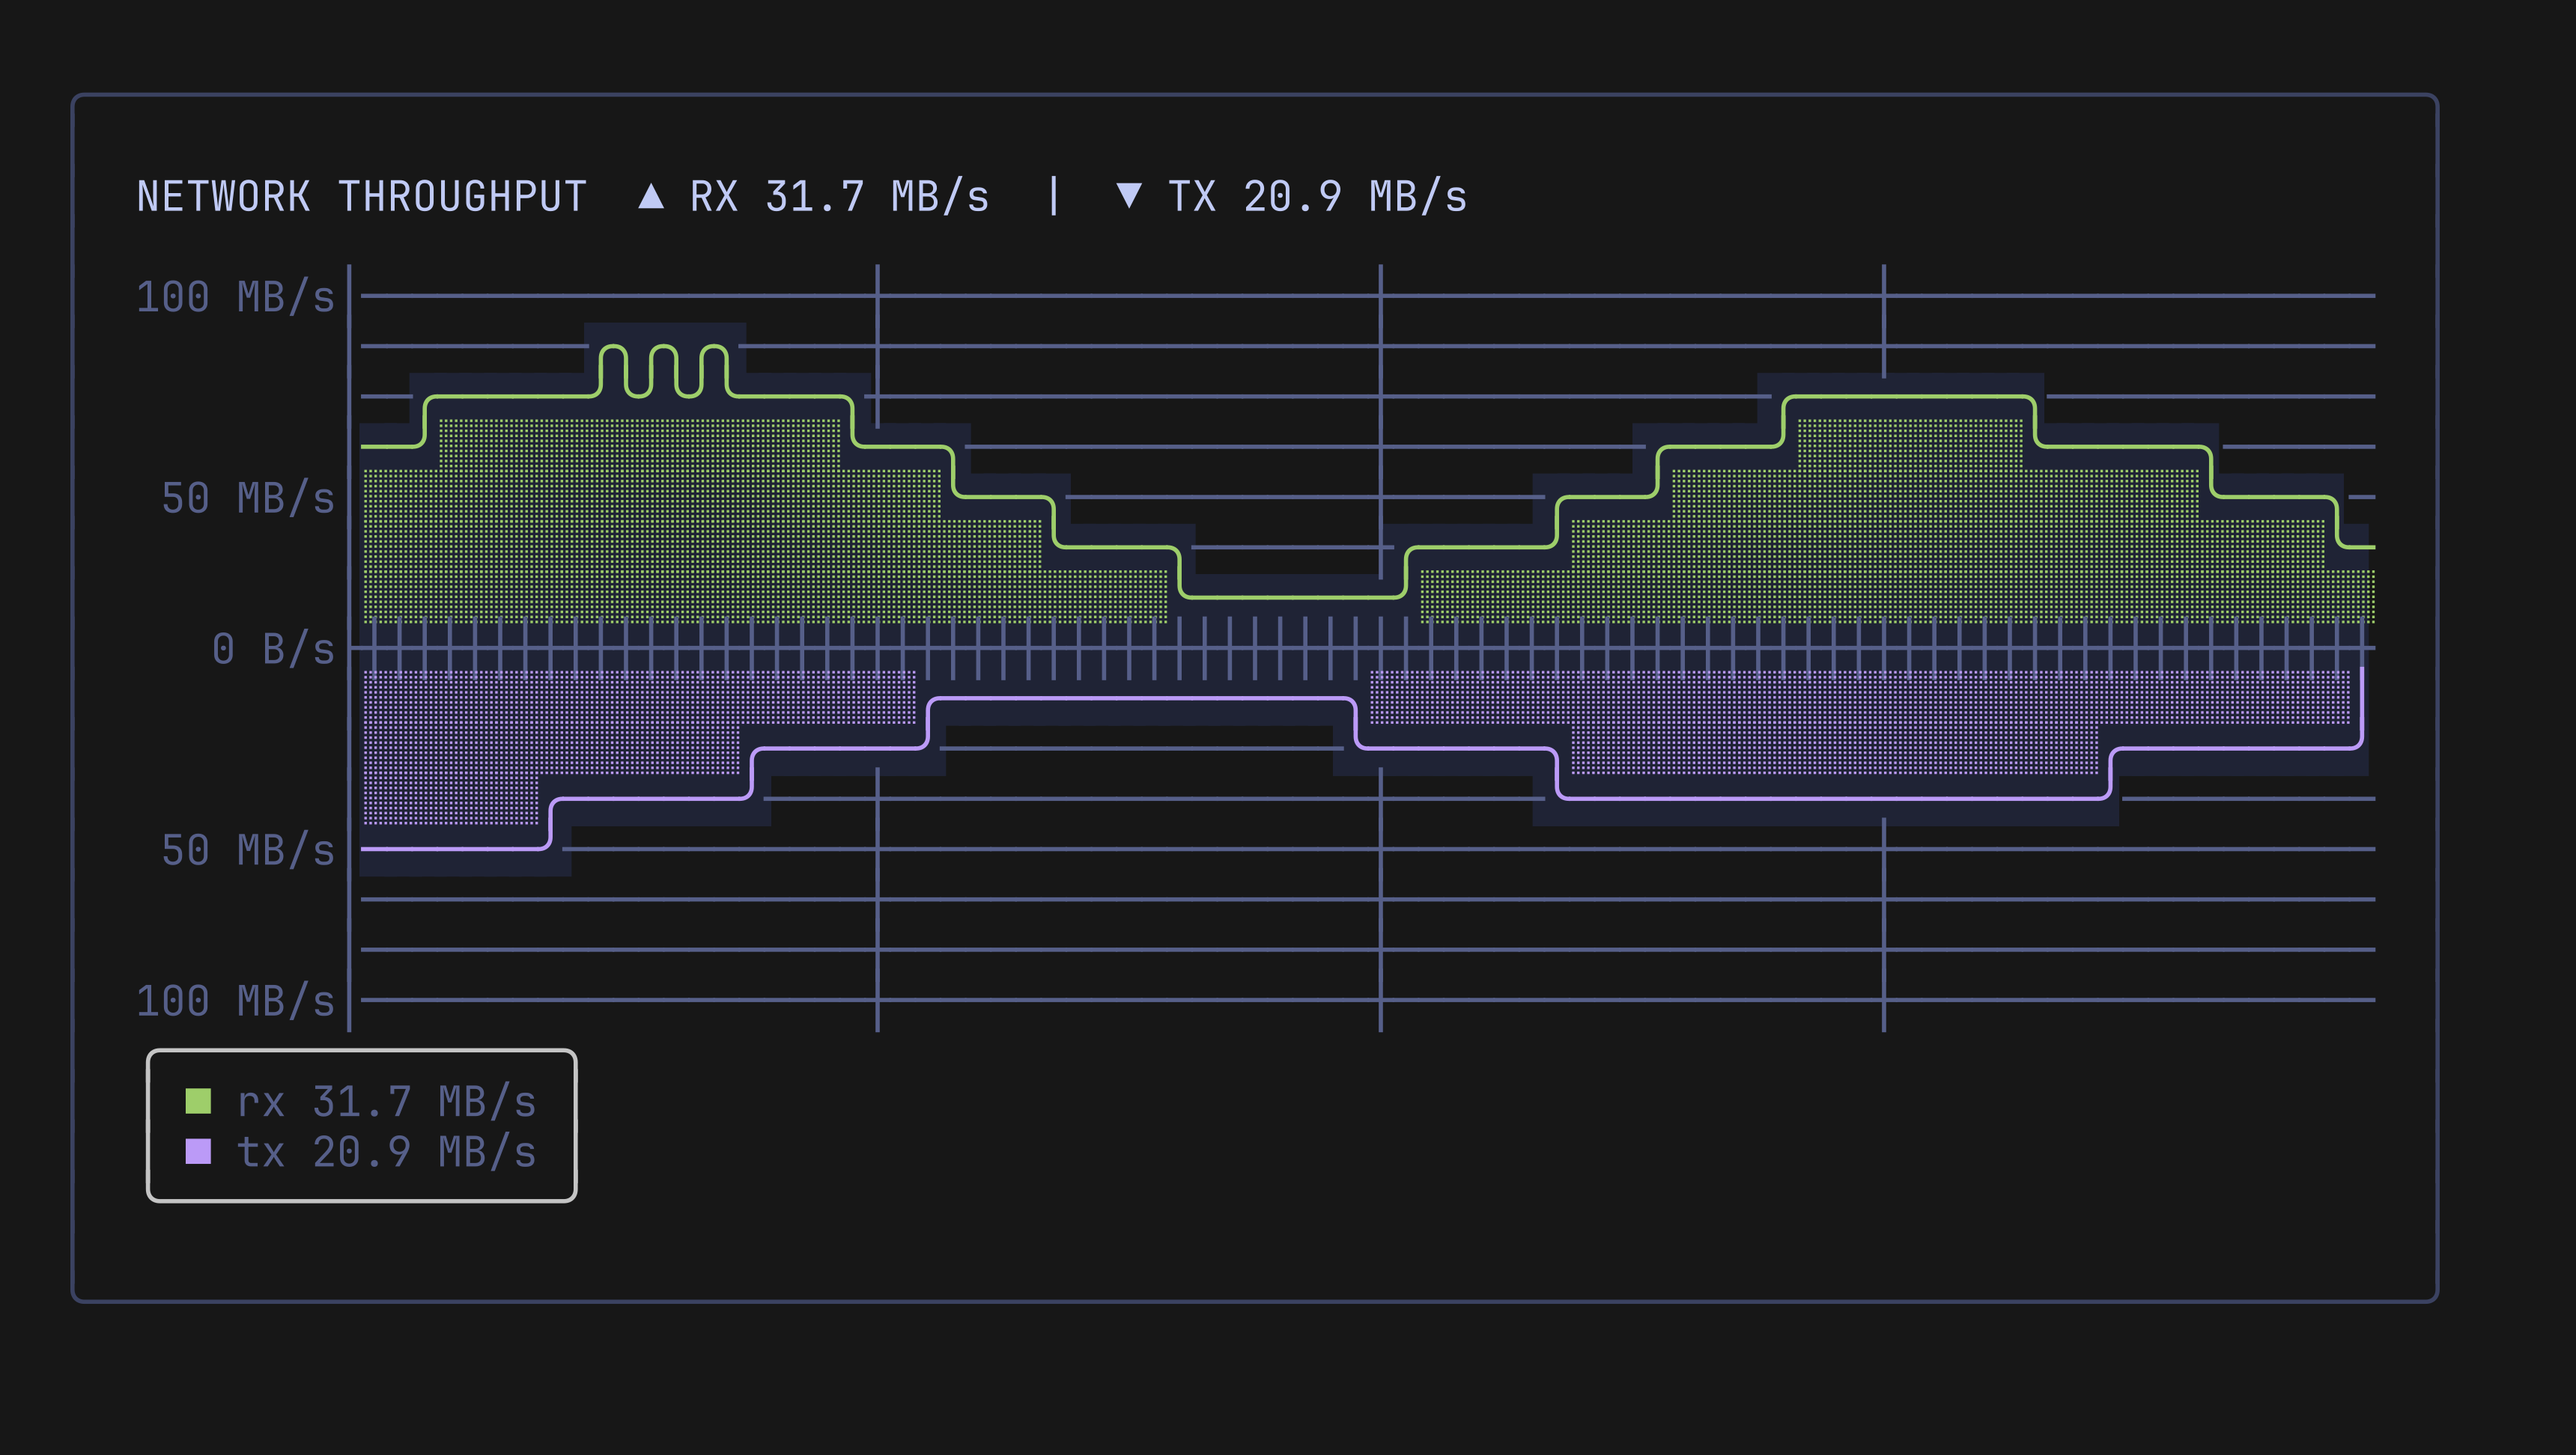
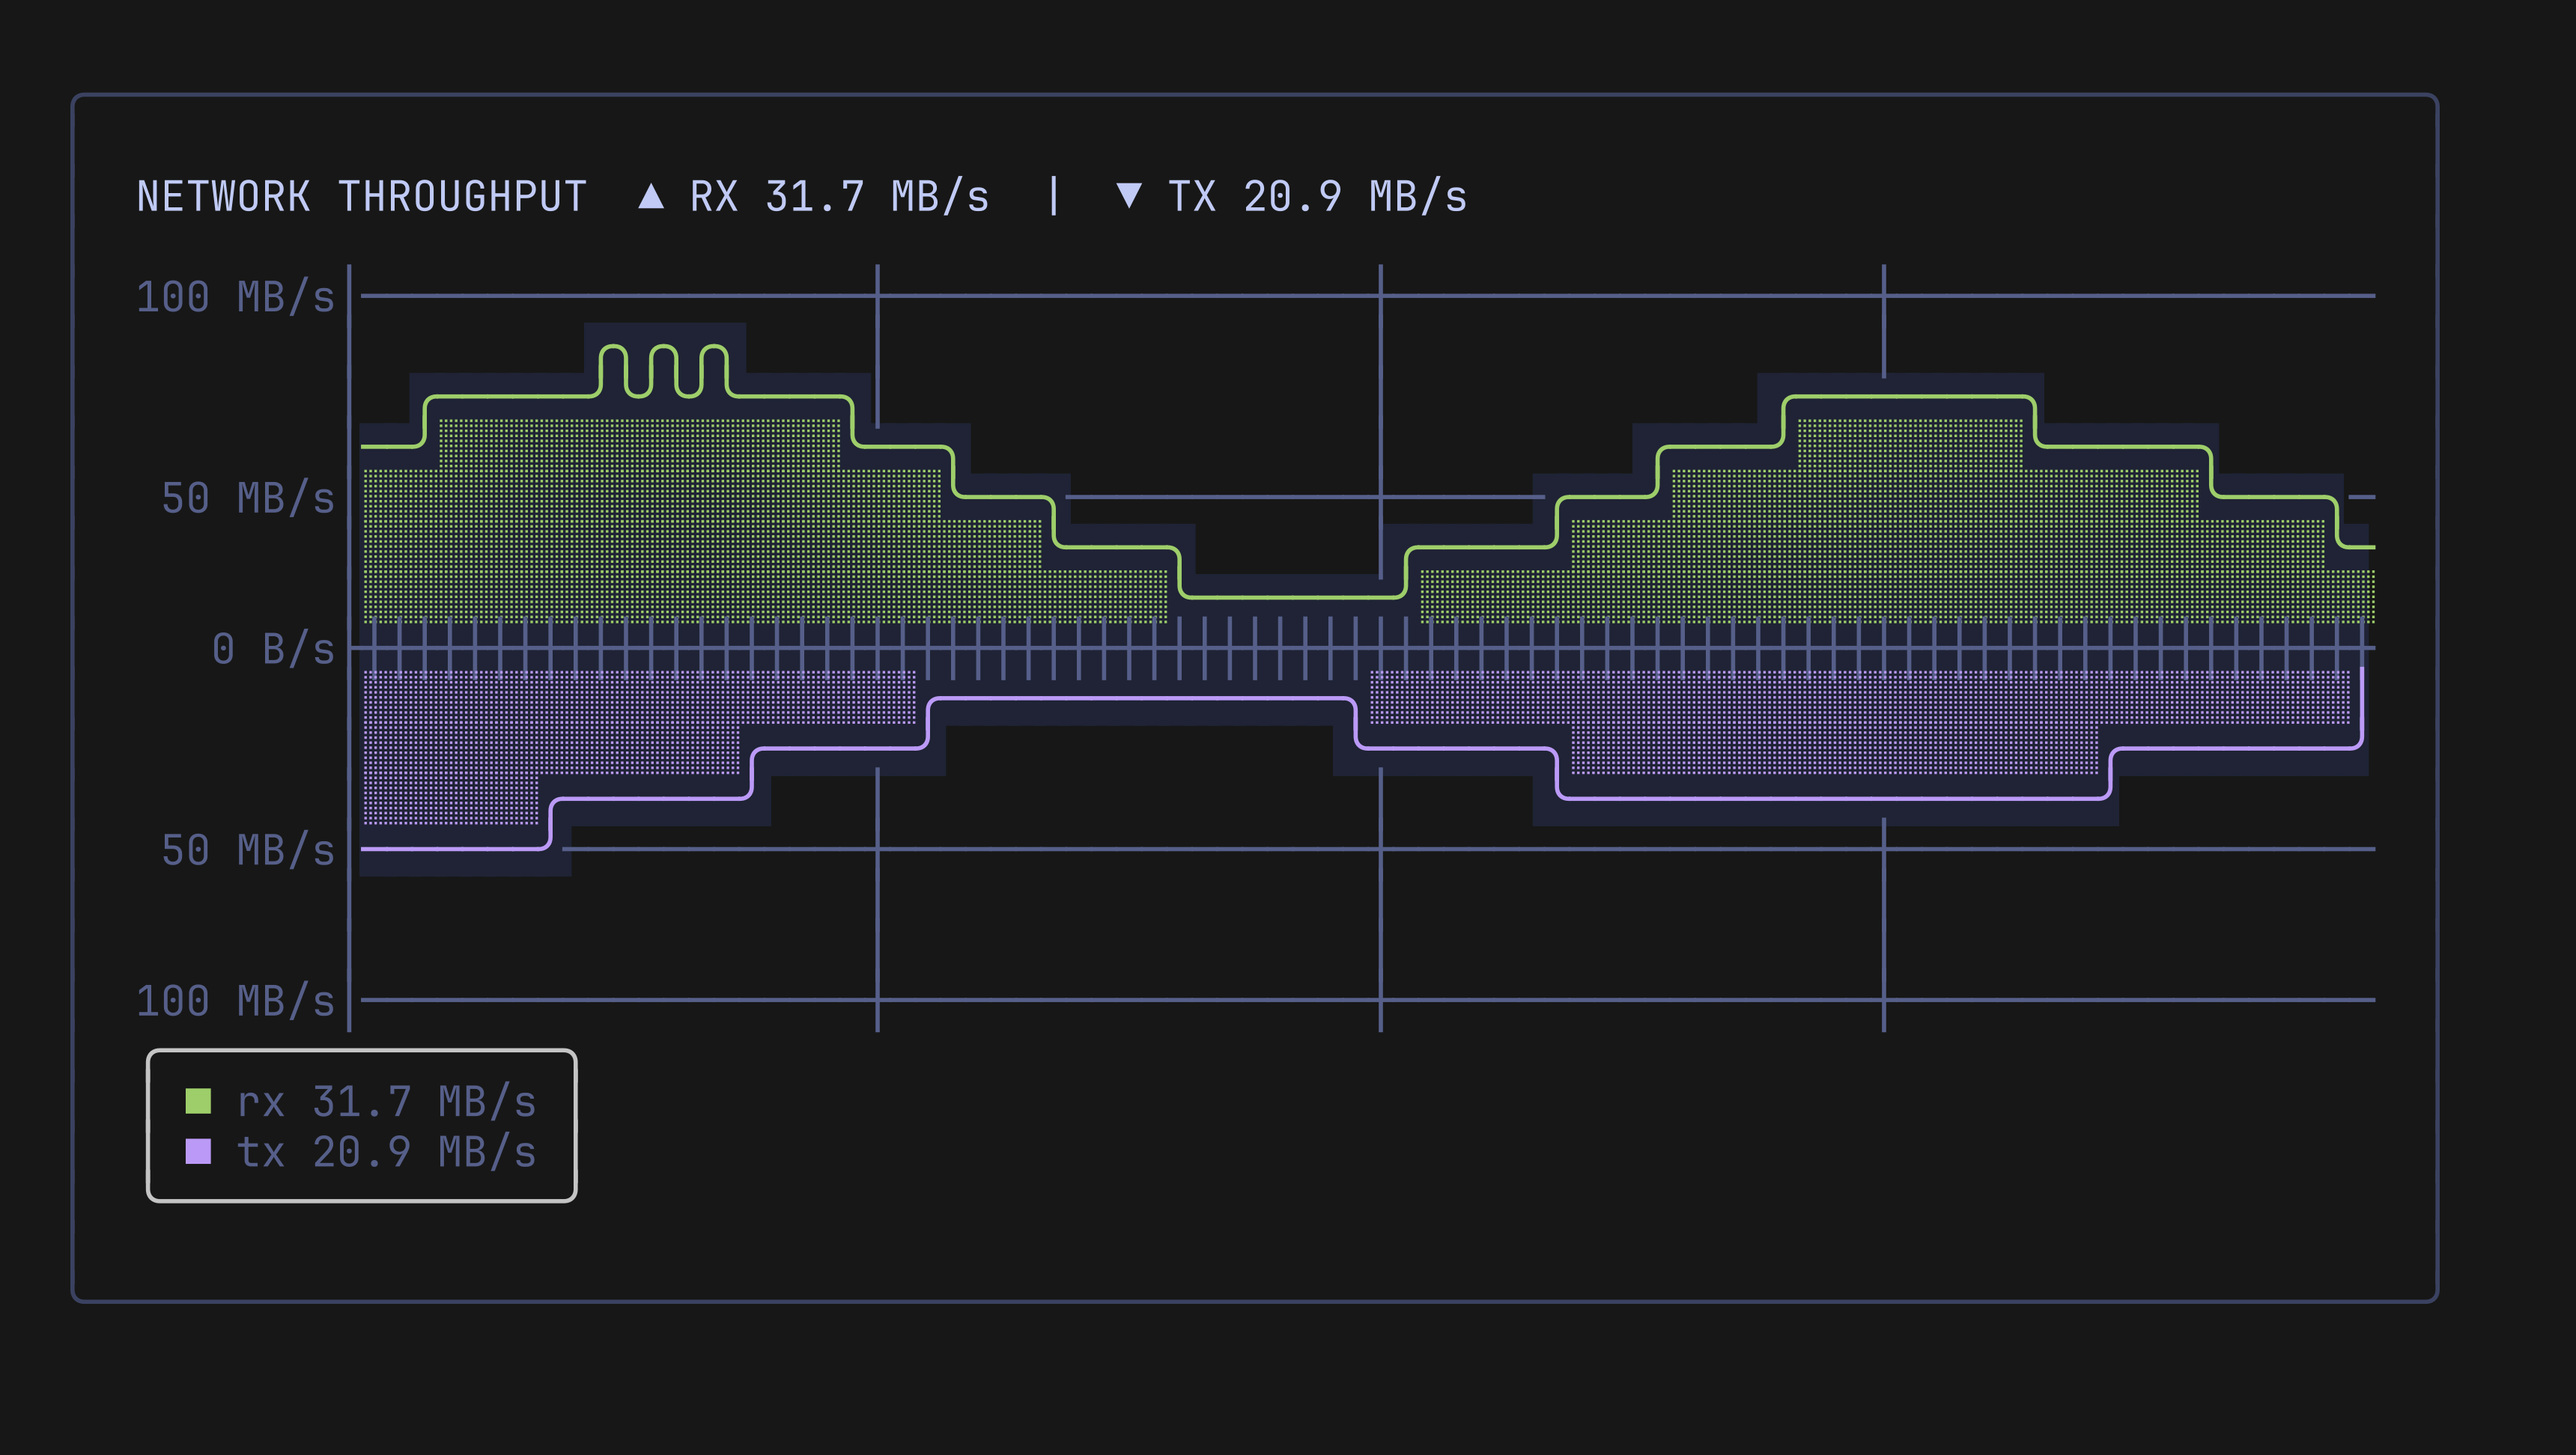
fix(pulse): draw horizontal grid lines only at tick rows

Changed region(s): [[0.311, 0.216, 0.902, 0.2778], [0.1555, 0.216, 0.2177, 0.2469]]

diff --git a/renderer_test.go b/renderer_test.go
@@ -1,10 +1,12 @@
 package pulse_test
 
 import (
+	"math"
 	"strings"
 	"testing"
 
 	"charm.land/lipgloss/v2"
+	"github.com/charmbracelet/x/ansi"
 	"github.com/ingvarch/pulse"
 )
 
@@ -110,35 +112,41 @@ func TestLineChart_PlainRenderKeepsDimensions(t *testing.T) {
 }
 
 func TestLineChart_GridLinesExactAndEven(t *testing.T) {
-	lc := pulse.New(20, 8, pulse.WithRange(0, 100))
-	rows := strings.Split(lc.View(), "\n")
-	plot := func(r int) string {
-		runes := []rune(rows[r])
-		i := -1
-		for j, ru := range runes {
-			if ru == '│' {
-				i = j
-				break
+	const w, h = 20, 7
+	tickRows := map[int]bool{0: true, 3: true, 6: true}
+	for _, m := range gapModes {
+		t.Run(m.name, func(t *testing.T) {
+			lc := pulse.New(w, h, pulse.WithRange(0, 100), pulse.WithTicks(0, 50, 100), pulse.WithMode(m.mode))
+			rows := strings.Split(ansi.Strip(lc.View()), "\n")
+			if len(rows) != h {
+				t.Fatalf("expected %d rows, got %d", h, len(rows))
 			}
-		}
-		if i < 0 {
-			t.Fatalf("row %d has no axis", r)
-		}
-		return string(runes[i+1:])
-	}
-	// Solid ruling: every row in the plot has no spaces.
-	for r := range rows {
-		for _, ru := range plot(r) {
-			if ru == ' ' {
-				t.Fatalf("grid row %d must be solid, got %q", r, plot(r))
+			for r, ln := range rows {
+				_, plot, ok := strings.Cut(ln, "│")
+				if !ok {
+					t.Fatalf("row %d has no axis", r)
+				}
+				cells := []rune(plot)
+				if len(cells) != w {
+					t.Fatalf("row %d has %d plot cells, want %d", r, len(cells), w)
+				}
+				for c, got := range cells {
+					quarter := c == 5 || c == 10 || c == 15
+					want := ' '
+					switch {
+					case tickRows[r] && quarter:
+						want = '┼'
+					case tickRows[r]:
+						want = '─'
+					case quarter:
+						want = '│'
+					}
+					if got != want {
+						t.Fatalf("row %d col %d = %q, want %q (row %q)", r, c, got, want, plot)
+					}
+				}
 			}
-		}
-	}
-	// Solid grid made of box characters.
-	for _, want := range []string{"─", "│", "┼"} {
-		if !strings.Contains(lc.View(), want) {
-			t.Fatalf("View() with grid must contain %q", want)
-		}
+		})
 	}
 	plain := pulse.New(20, 8, pulse.WithRange(0, 100), pulse.WithGrid(false), pulse.WithFill(false))
 	seedCPU(plain)
@@ -270,5 +278,17 @@ func TestLineChart_LabelFormatterAndWidth(t *testing.T) {
 	}
 	if !strings.Contains(view, "4 GHz") || !strings.Contains(view, "2 GHz") || !strings.Contains(view, "0 GHz") {
 		t.Fatalf("view must contain formatted labels: 4 GHz, 2 GHz, 0 GHz:\n%s", view)
+	}
+}
+
+func TestLineChart_NonFiniteTickIsSkipped(t *testing.T) {
+	for _, m := range gapModes {
+		t.Run(m.name, func(t *testing.T) {
+			lc := pulse.New(24, 5, pulse.WithRange(0, 100), pulse.WithTicks(math.NaN(), 50), pulse.WithMode(m.mode))
+			rows := strings.Split(ansi.Strip(lc.View()), "\n")
+			if strings.Contains(rows[0], "NaN") || strings.Contains(rows[0], "─") {
+				t.Fatalf("row 0 must have no label and no grid line, got %q", rows[0])
+			}
+		})
 	}
 }

diff --git a/view.go b/view.go
@@ -60,7 +60,7 @@ func (m *Model) View() string {
 	rowLabel := map[int]string{}
 	for i := len(ticks) - 1; i >= 0; i-- {
 		t := ticks[i]
-		if t < m.min || t > m.max {
+		if isGap(t) || t < m.min || t > m.max {
 			continue
 		}
 		row := m.tickRow(t)
@@ -88,7 +88,7 @@ func (m *Model) View() string {
 	hGrid := make([]bool, m.h)
 	vGrid := make([]bool, m.w)
 	if m.grid {
-		for r := range hGrid {
+		for r := range rowLabel {
 			hGrid[r] = true
 		}
 		for k := 1; k < 4; k++ {
